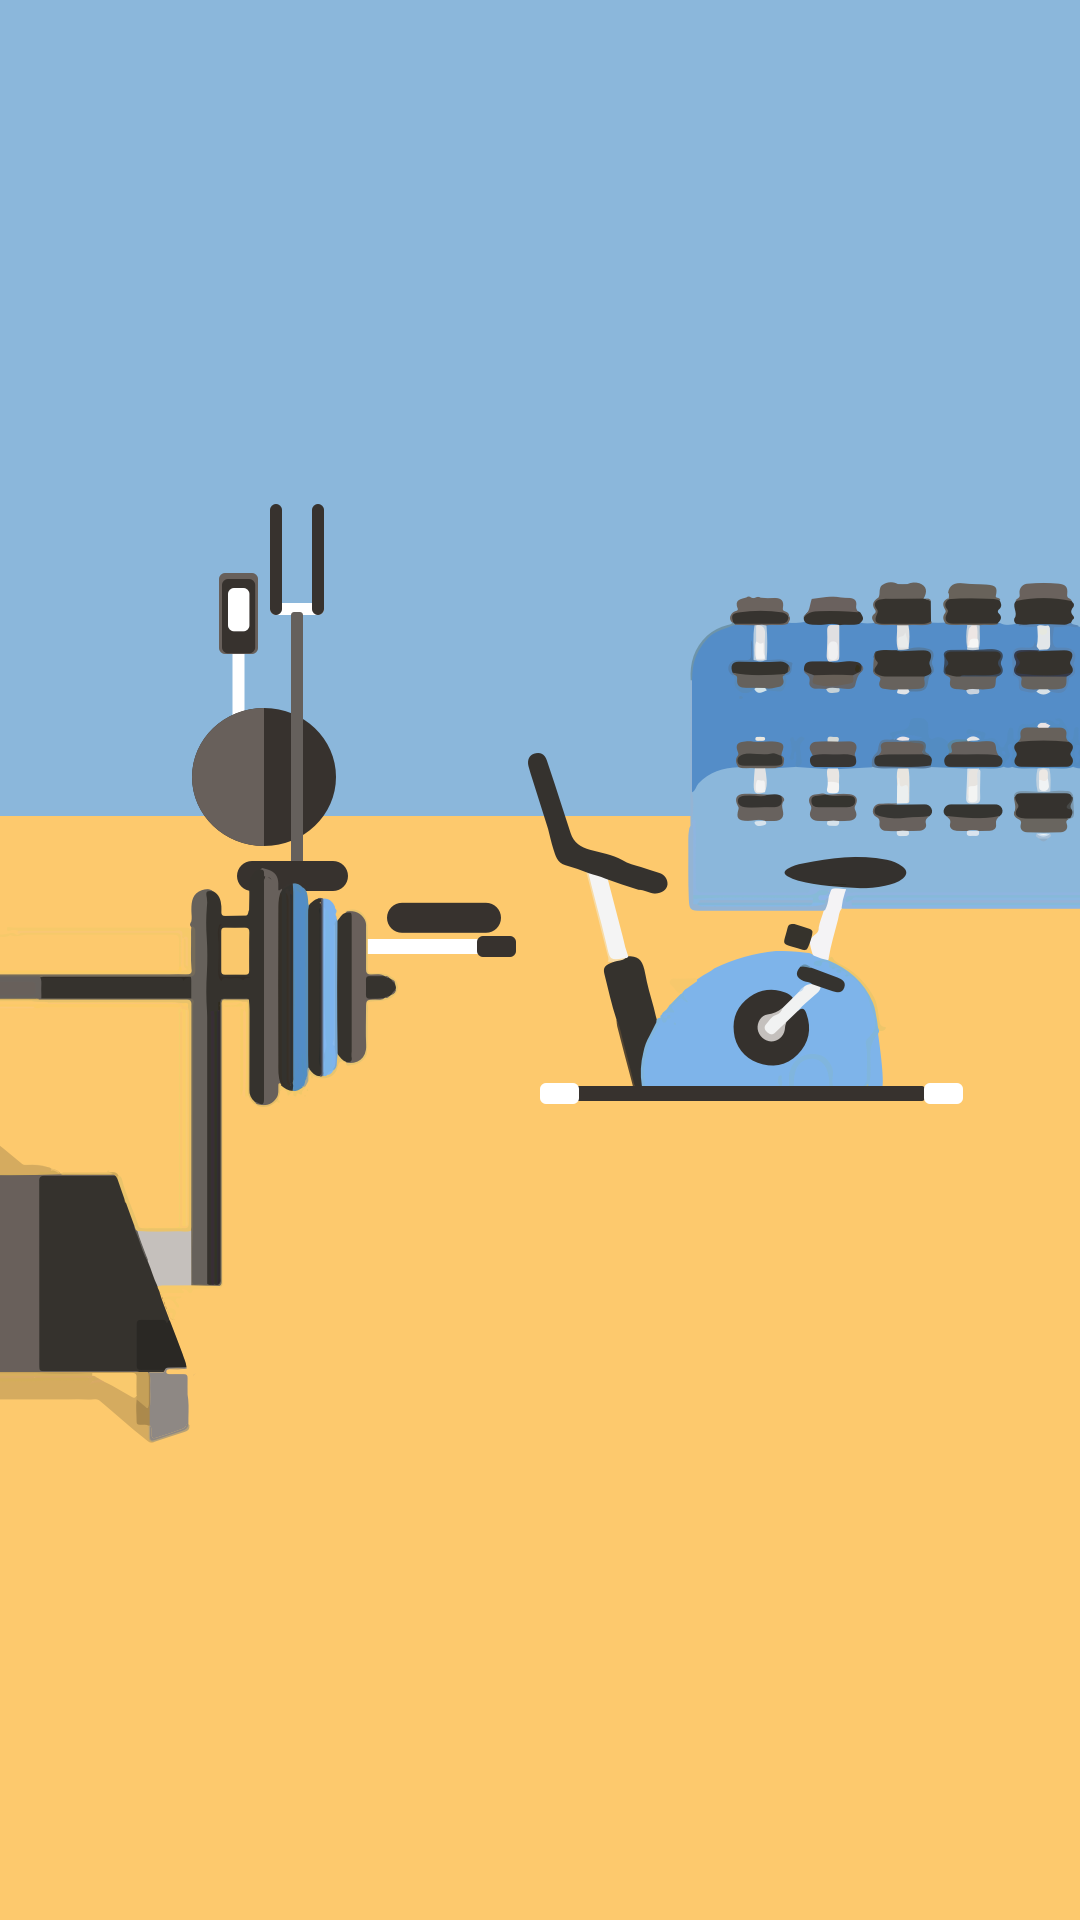
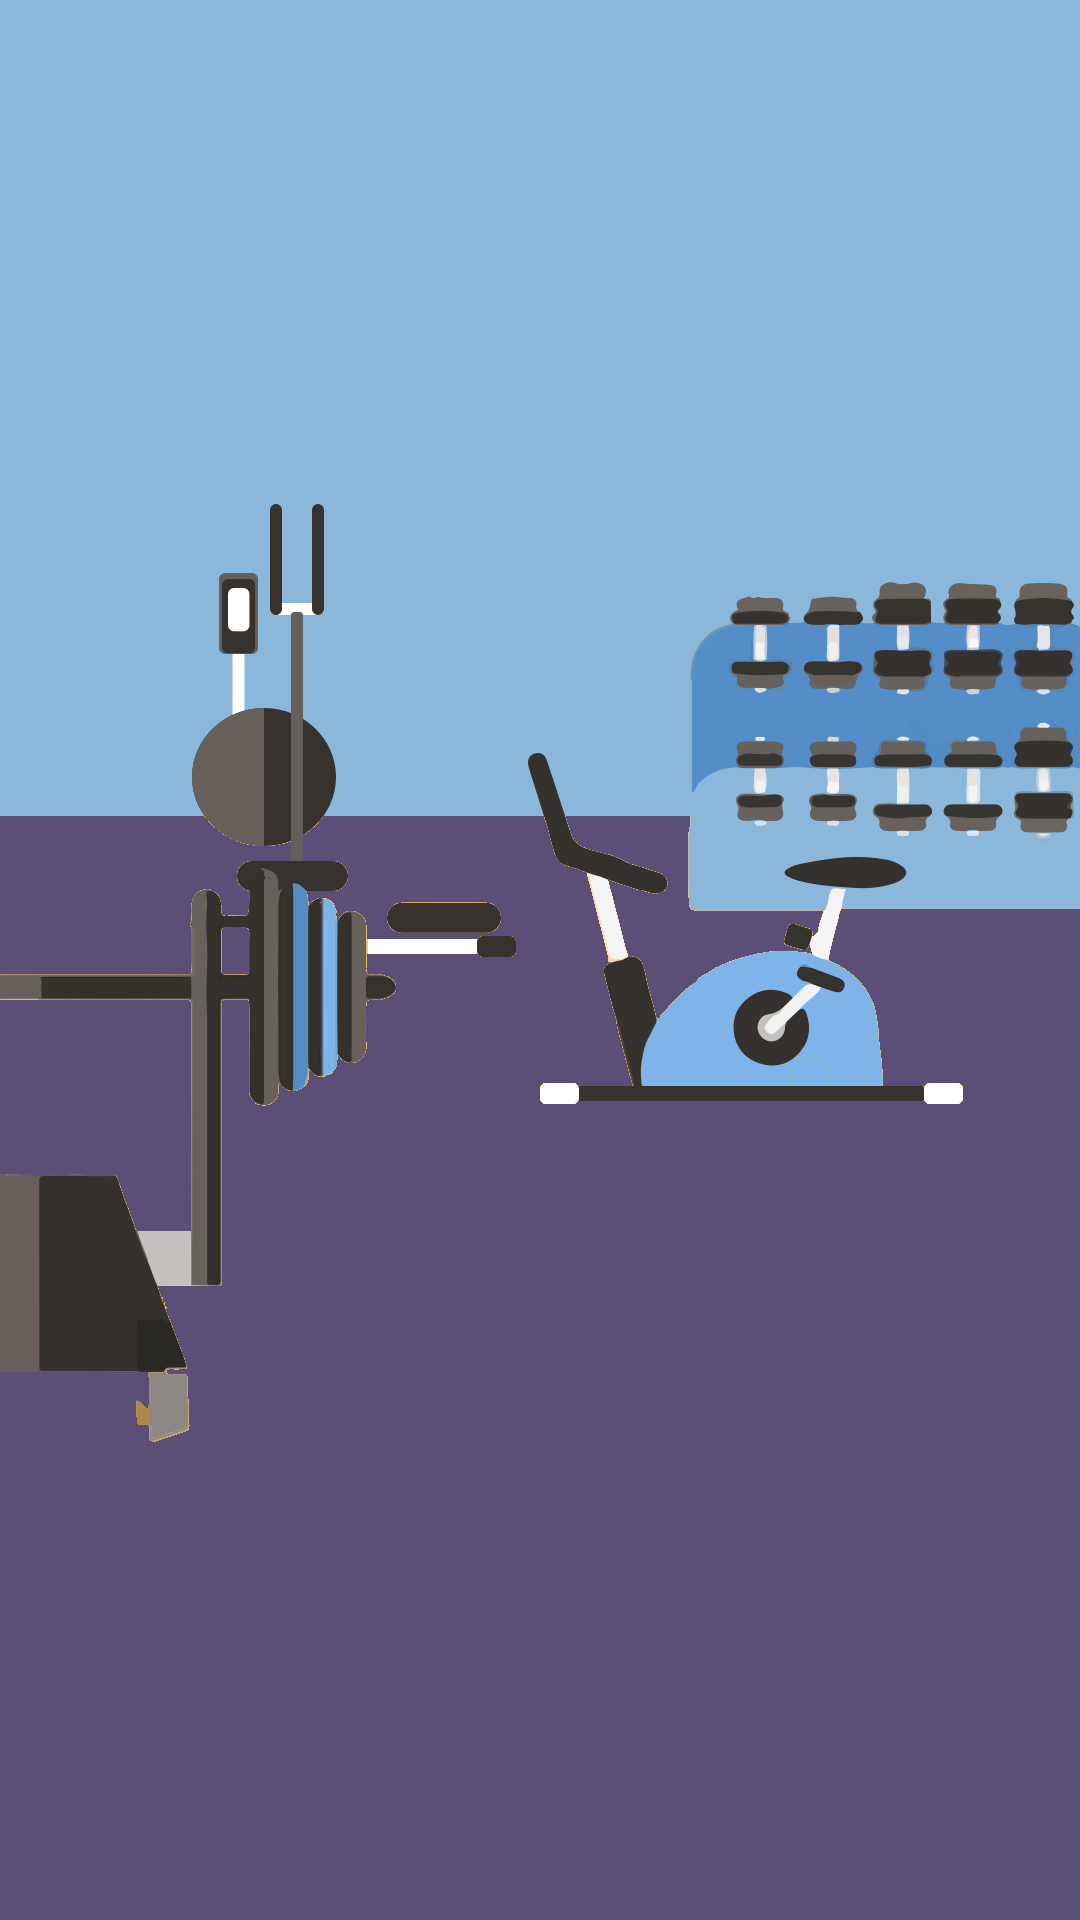
Added new body type images and redesigned gym background

diff --git a/app/src/main/java/com/example/ivo/gymbuddy/BodyTypes.java b/app/src/main/java/com/example/ivo/gymbuddy/BodyTypes.java
@@ -12,9 +12,10 @@ public interface BodyTypes
 {
     int[] imageList = new int[]
             {
-                    R.drawable.body_one,
-                    R.drawable.body_two,
-                    R.drawable.body_three,
-                    R.drawable.body_four
+                    R.drawable.bt_5,
+                    R.drawable.bt_4,
+                    R.drawable.bt_3,
+                    R.drawable.bt_2,
+                    R.drawable.bt_1
             };
 }
